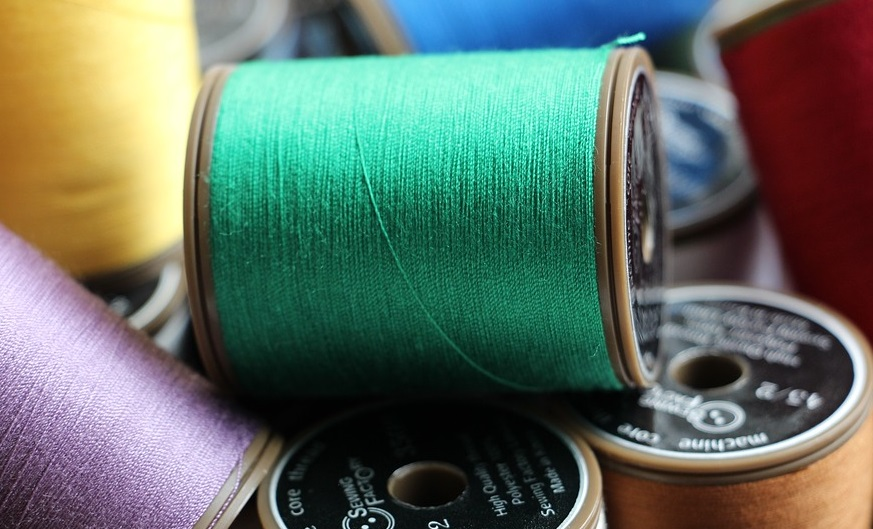
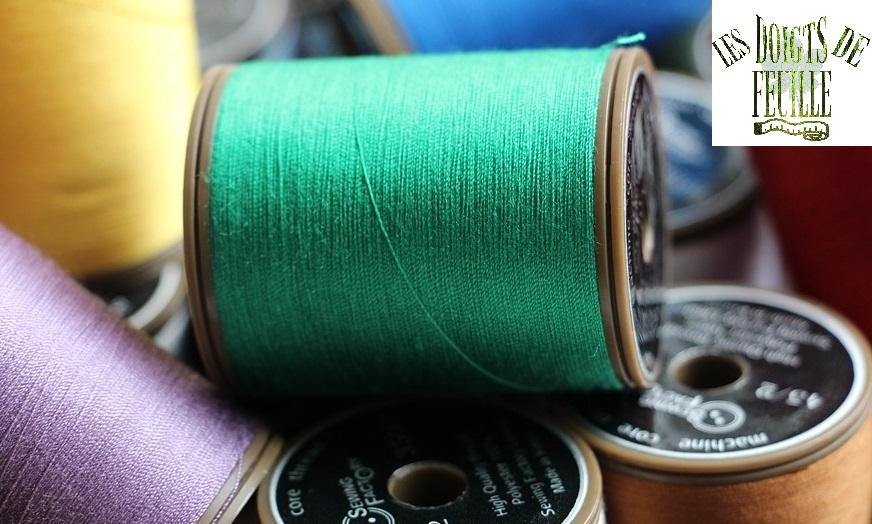
up

diff --git a/tissus.html b/tissus.html
@@ -60,13 +60,11 @@
       <h1> Nos tissus </h1>
       <div name="Produit1" class="row" id="Produit1">
         <img src="img/Coton.jpg" alt="Coton" class="imgLeft">
-        <p class="col-md-8 col-lg-8">Lorem ipsum dolor sit amet, consectetur adipiscing elit. Mauris risus velit, gravida ut vestibulum eu, cursus a augue. Nulla commodo fermentum lorem, eu faucibus libero eleifend a. Sed dapibus lorem sed nunc elementum lacinia. Sed suscipit sollicitudin eros, quis rutrum justo aliquam non. Integer erat diam, mollis ut eros sit amet, bibendum scelerisque eros. Cras pharetra tellus sed interdum aliquet. Praesent aliquam libero non turpis sagittis, vitae auctor mi suscipit. Sed id cursus ipsum. Sed laoreet, ligula sed placerat blandit, tellus sem interdum lorem, eu molestie sapien elit a turpis. Morbi id tellus euismod, vehicula mauris ac, sodales ante.
-        </p>
+        <p class="col-md-8 col-lg-8">Le coton 'dana', issu du commerce equitable et fabriqué en Inde, est reputé pour son confort sa solidité. C'est le tissu idéal pour des vêtements en jean, ou pour bébé. Cultivé et transformé dans le respect de l'environnement, il est garanti 100% bio et sans produits chimiques.</p>
       </div>
       <div name="Produit2" class="row" id="Produit2">
-        <p class="col-md-8 col-lg-8">Lorem ipsum dolor sit amet, consectetur adipiscing elit. Mauris risus velit, gravida ut vestibulum eu, cursus a augue. Nulla commodo fermentum lorem, eu faucibus libero eleifend a. Sed dapibus lorem sed nunc elementum lacinia. Sed suscipit sollicitudin eros, quis rutrum justo aliquam non. Integer erat diam, mollis ut eros sit amet, bibendum scelerisque eros. Cras pharetra tellus sed interdum aliquet. Praesent aliquam libero non turpis sagittis, vitae auctor mi suscipit. Sed id cursus ipsum. Sed laoreet, ligula sed placerat blandit, tellus sem interdum lorem, eu molestie sapien elit a turpis. Morbi id tellus euismod, vehicula mauris ac, sodales ante.
-        </p>
-        <img src="img/Coton.jpg" class="imgRight">
+        <p class="col-md-8 col-lg-8">Notre soie "Shiru" est quant à elle le tissu idéal si vous souhaitez quelquechose d'élégant et raffiné. Plutôt utilisée pour des sous-vêtements ou des robes, elle est très douce et s'entretient facilement. Cultivée en Chine, elle est elle aussi traitée de manière à respecter l'environnement.</p>
+        <img src="img/bobine_soie.jpg" class="imgRight">
       </div>
     </div>
     <script src="https://code.jquery.com/jquery-3.2.1.slim.min.js" integrity="sha384-KJ3o2DKtIkvYIK3UENzmM7KCkRr/rE9/Qpg6aAZGJwFDMVNA/GpGFF93hXpG5KkN" crossorigin="anonymous"></script>

diff --git a/index.html b/index.html
@@ -64,6 +64,7 @@
         <p class="blabla"> <span class="titre">Nos tissus</span><br>Nos tissus sont travaillés à la main par nos artisans, ici en France. Notre large variété de tissus est un réel point fort ! <br><span class="lien"> Cliquez ici pour en savoir plus. </span></p>
         <p class="blabla"> <span class="titre">Un artisanat 100% bio</span><br>Parce que préserver la nature nous tient à coeur, tous les matériaux que nous utilisons sont issus d'une agriculture biologique !<br><span class="lien"> Cliquez ici pour en savoir plus. </span></p>
         <p class="blabla"> <span class="titre">Du sur-mesure</span><br>Chacun de nos articles est réalisé sur-mesure. Choisissez votre produit, la couleur et le matériau, puis entrez vos mensurations et le tour est joué !<br></p>
+        <img src="img/logo_ab.jpg" alt="Agriculture Biologique" id="im">
       </div>
 
 

diff --git a/css/index.css b/css/index.css
@@ -3,6 +3,7 @@ body{
 }
 #MainImage{
   margin-top:20px;
+  max-height:600px;
 }
 .blabla{
   margin-left:-30px;
@@ -22,4 +23,7 @@ body{
 }
 #image{
   margin-left:-130px;
+}
+#im{
+  max-height:25%;
 }

diff --git a/css/tissus.css b/css/tissus.css
@@ -13,7 +13,7 @@ h1{
   max-height:50%;
   max-width:50%;
   border-radius:50%;
-  margin-left:80px;
+  margin-left:120px;
 }
 #Produit1,#Produit2{
   border-bottom:2px solid #30c040;
